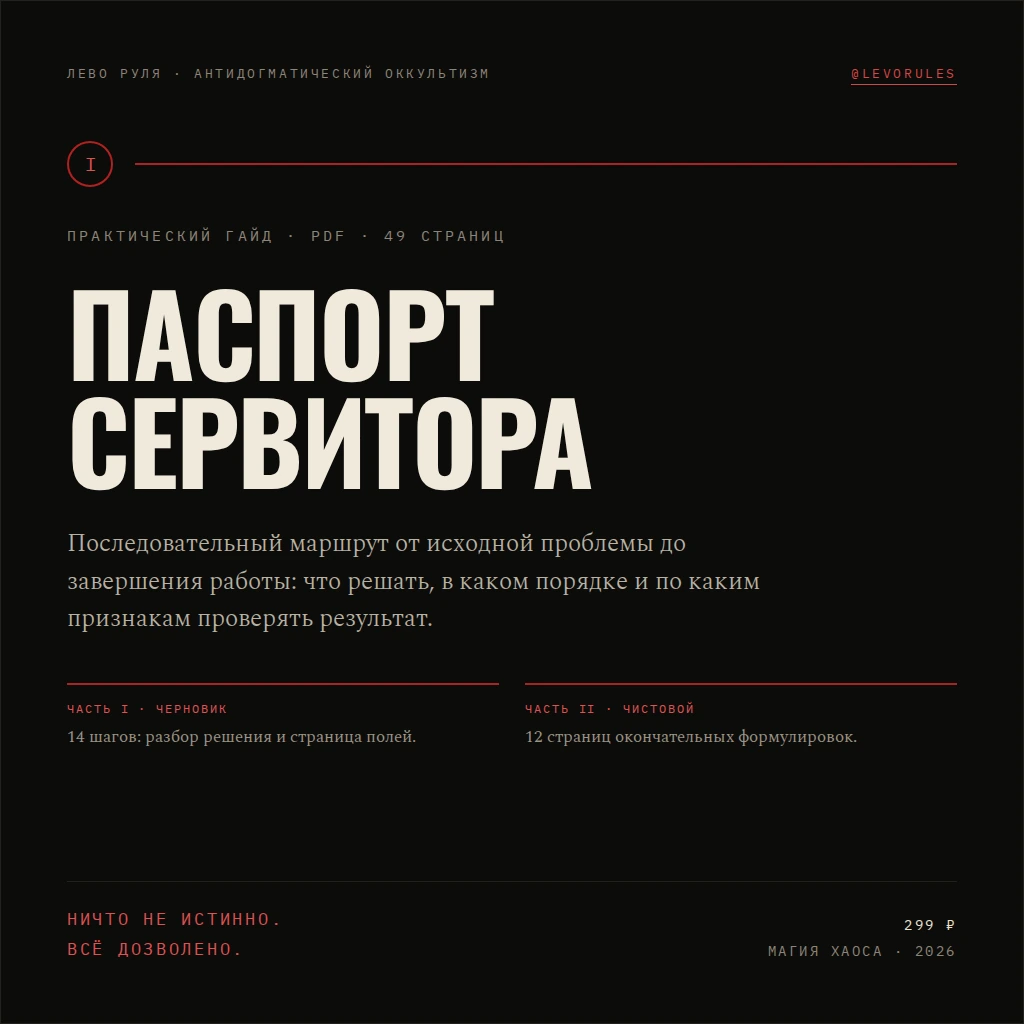
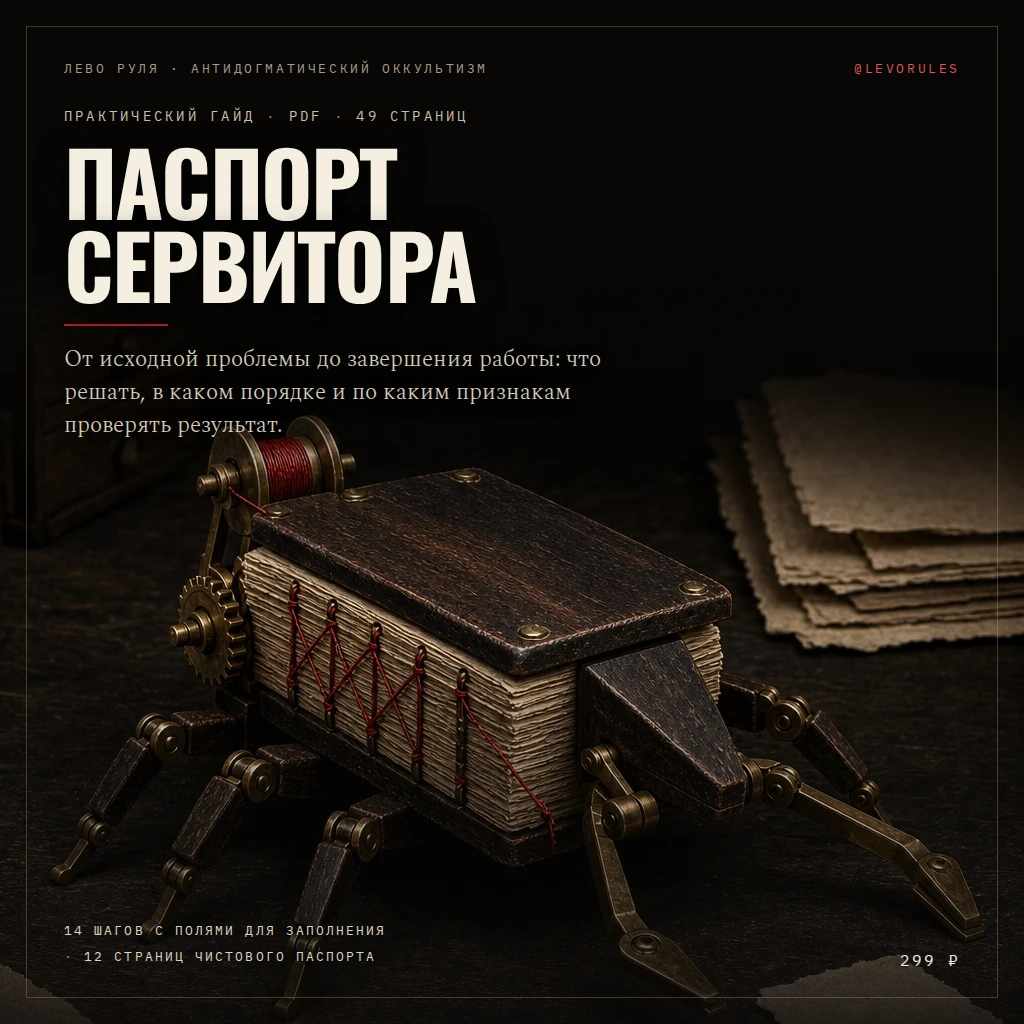
обложка: Тенет в стиле новой редакции
- фотография конструкции + типографика гайда (Oswald / Spectral / Plex Mono)
- актуальный текст: 49 страниц, 14 шагов с полями, 12 чистовых, цена
- og-картинка переведена с тяжёлого png на cover.jpg (174 КБ)
- build_cover.py собирает оба варианта: STYLE = photo | type

diff --git a/passport-servitora/index.html b/passport-servitora/index.html
@@ -14,7 +14,7 @@
   <meta property="og:title" content="Паспорт сервитора — практический гайд">
   <meta property="og:description" content="Последовательный маршрут от задачи до завершения. PDF, 49 страниц: 14 шагов с полями для заполнения и 12 чистовых страниц паспорта.">
   <meta property="og:url" content="https://levorules.com/passport-servitora/">
-  <meta property="og:image" content="https://levorules.com/passport-servitora/assets/cover.png">
+  <meta property="og:image" content="https://levorules.com/passport-servitora/assets/cover.jpg">
   <meta property="og:image:width" content="1024">
   <meta property="og:image:height" content="1024">
   <meta property="og:image:alt" content="Обложка практического гайда «Паспорт сервитора»">
@@ -23,7 +23,7 @@
   <meta name="twitter:card" content="summary_large_image">
   <meta name="twitter:title" content="Паспорт сервитора — практический гайд">
   <meta name="twitter:description" content="PDF, 49 страниц. 14 шагов: от реальной задачи и критериев до тестов и завершения сервитора.">
-  <meta name="twitter:image" content="https://levorules.com/passport-servitora/assets/cover.png">
+  <meta name="twitter:image" content="https://levorules.com/passport-servitora/assets/cover.jpg">
 
   <link rel="icon" type="image/svg+xml" href="/brand/assets/favicon.svg">
   <link rel="icon" type="image/png" sizes="32x32" href="/brand/assets/favicon-32.png">
@@ -40,7 +40,7 @@
     "@type": "Product",
     "name": "Паспорт сервитора — практический гайд",
     "description": "Пошаговый PDF-гайд по созданию собственного сервитора: 14 шагов от задачи и функции до сигилы, правил, тестов и завершения, плюс 12 чистовых страниц паспорта.",
-    "image": "https://levorules.com/passport-servitora/assets/cover.png",
+    "image": "https://levorules.com/passport-servitora/assets/cover.jpg",
     "brand": {
       "@type": "Brand",
       "name": "Лево Руля"

diff --git a/tools/pdf/passport/build_cover.py b/tools/pdf/passport/build_cover.py
@@ -27,8 +27,11 @@ TRIBUTE = HERE / "out" / "tribute-cover.png"
 PAGES = 49
 PRICE = "299 ₽"
 
+# "photo" — Тенет на обложке, "type" — чистая типографика
+STYLE = "photo"
 
-def html() -> str:
+
+def _fonts() -> str:
     def face(family: str, filename: str, weight: str) -> str:
         return ("@font-face{font-family:'%s';src:url('%s') format('truetype');"
                 "font-weight:%s;font-style:normal;font-display:block;}"
@@ -42,7 +45,11 @@ def html() -> str:
         + face("Spectral", "Spectral-300.ttf", "300")
         + face("Spectral", "Spectral-400.ttf", "400")
     )
+    return fonts
 
+
+def html() -> str:
+    fonts = _fonts()
     return f"""<!doctype html><html lang="ru"><head><meta charset="utf-8"><style>
 {fonts}
 *{{box-sizing:border-box;margin:0;padding:0;}}
@@ -100,11 +107,72 @@ h1{{font-family:'Oswald';font-weight:700;font-size:112px;line-height:.96;
 </div></body></html>"""
 
 
+
+PHOTO = HERE / "tenet-cover-source.jpg"
+
+
+def html_photo() -> str:
+    """Вариант с Тенетом: фотография конструкции + типографика новой редакции."""
+    return f"""<!doctype html><html lang="ru"><head><meta charset="utf-8"><style>
+{_fonts()}
+*{{box-sizing:border-box;margin:0;padding:0;}}
+html,body{{width:1024px;height:1024px;background:#0A0908;}}
+.cover{{position:relative;width:1024px;height:1024px;overflow:hidden;}}
+.photo{{position:absolute;inset:0;background-image:url('{PHOTO.as_uri()}');
+  background-size:1024px auto;background-position:0 -120px;}}
+.scrim{{position:absolute;inset:0;background:
+  linear-gradient(180deg, rgba(8,7,6,.96) 0%, rgba(8,7,6,.92) 26%,
+    rgba(8,7,6,.62) 38%, rgba(8,7,6,.10) 50%, rgba(8,7,6,0) 62%,
+    rgba(8,7,6,.55) 88%, rgba(8,7,6,.86) 100%);}}
+.frame{{position:absolute;inset:26px;border:1px solid rgba(196,168,120,.30);}}
+.body{{position:absolute;inset:0;padding:60px 64px 54px;display:flex;
+  flex-direction:column;justify-content:space-between;color:#EFE9DA;}}
+.top{{display:flex;justify-content:space-between;align-items:baseline;
+  font-family:'IBM Plex Mono';font-size:13px;letter-spacing:.2em;
+  text-transform:uppercase;color:#A79B86;}}
+.top b{{color:#E05252;font-weight:400;}}
+.kicker{{font-family:'IBM Plex Mono';font-size:13.5px;letter-spacing:.24em;
+  text-transform:uppercase;color:#C9BFA9;margin:30px 0 14px;}}
+.kicker i{{color:#E05252;font-style:normal;}}
+h1{{font-family:'Oswald';font-weight:700;font-size:88px;line-height:.94;
+  letter-spacing:-.02em;text-transform:uppercase;color:#F4EEE0;
+  text-shadow:0 6px 30px rgba(0,0,0,.75);}}
+.rule{{width:104px;height:2px;background:#B32020;margin:20px 0 18px;}}
+.sub{{font-family:'Spectral';font-weight:300;font-size:23px;line-height:1.42;
+  color:#D3CBBA;max-width:560px;text-shadow:0 3px 16px rgba(0,0,0,.85);}}
+.bottom{{display:flex;justify-content:space-between;align-items:flex-end;
+  font-family:'IBM Plex Mono';font-size:13px;letter-spacing:.16em;
+  text-transform:uppercase;color:#B7AD98;}}
+.bottom .parts{{color:#DDD5C3;line-height:2;}}
+.bottom .parts i{{color:#E05252;font-style:normal;}}
+.bottom .price{{font-size:16px;color:#F4EEE0;}}
+</style></head><body>
+<div class="cover">
+  <div class="photo"></div><div class="scrim"></div><div class="frame"></div>
+  <div class="body">
+    <div>
+      <div class="top"><span>Лево Руля · антидогматический оккультизм</span><b>@levorules</b></div>
+      <div class="kicker">практический гайд <i>·</i> pdf <i>·</i> {PAGES} страниц</div>
+      <h1>Паспорт<br>сервитора</h1>
+      <div class="rule"></div>
+      <p class="sub">От исходной проблемы до завершения работы: что решать,
+        в каком порядке и по каким признакам проверять результат.</p>
+    </div>
+    <div class="bottom">
+      <div class="parts">14 шагов с полями для заполнения<br>
+        <i>·</i> 12 страниц чистового паспорта</div>
+      <div class="price">{PRICE}</div>
+    </div>
+  </div>
+</div></body></html>"""
+
+
 def main() -> None:
     tmp = HERE / "_cover.html"
-    tmp.write_text(html(), encoding="utf-8")
+    builder = html_photo if STYLE == "photo" else html
+    tmp.write_text(builder(), encoding="utf-8")
     ASSETS.mkdir(parents=True, exist_ok=True)
-    png = ASSETS / "cover.png"
+    png = ASSETS / "_cover_raw.png"
 
     with sync_playwright() as pw:
         browser = pw.chromium.launch()
@@ -118,10 +186,12 @@ def main() -> None:
     img = Image.open(png).convert("RGB")
     assert img.size == (1024, 1024), img.size
     img.save(ASSETS / "cover.webp", "WEBP", quality=92, method=6)
+    img.save(ASSETS / "cover.jpg", "JPEG", quality=88, optimize=True, progressive=True)
     TRIBUTE.parent.mkdir(parents=True, exist_ok=True)
-    img.save(TRIBUTE, "PNG")
+    img.save(TRIBUTE, "PNG")          # для Tribute — без потерь
+    png.unlink()
     tmp.unlink()
-    print(f"обложка: {png} и {ASSETS / 'cover.webp'}")
+    print(f"обложка: {ASSETS / 'cover.jpg'} и {ASSETS / 'cover.webp'}")
     print(f"для Tribute: {TRIBUTE}")
 
 
